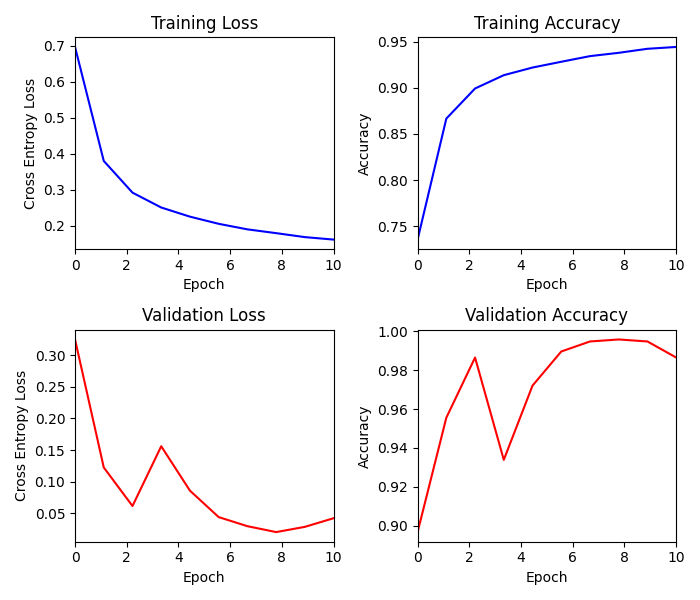
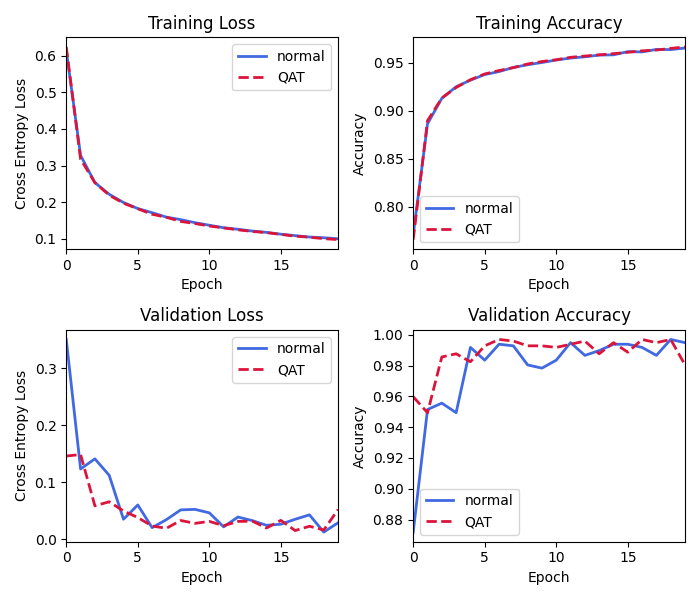
update figure1

diff --git a/graphs.py b/graphs.py
@@ -5,63 +5,79 @@ import numpy as np
 
 df1 = pd.read_csv("training_metrics_normal.csv")
 df2 = pd.read_csv("training_metrics_qat.csv")
-
-x1 = np.linspace(0, len(df1['training_acc']), len(df1['training_acc']))
-x2 = np.linspace(0, len(df2['training_acc']), len(df2['training_acc']))
+x1 = np.linspace(0, len(df1['training_acc'])-1, len(df1['training_acc']))
+x2 = np.linspace(0, len(df2['training_acc'])-1, len(df2['training_acc']))
 
 fig1, ax1 = plt.subplots(2, 2, figsize=(7, 6))
-ax1[0,0].plot(x1, df1['training_loss'], color='b')
+
+# Training Loss
+ax1[0,0].plot(x1, df1['training_loss'], 
+              color='royalblue', 
+              linestyle='-', 
+              linewidth=2, 
+              label='normal')
+ax1[0,0].plot(x2, df2['training_loss'], 
+              color='crimson', 
+              linestyle='--', 
+              linewidth=2, 
+              label='QAT')
 ax1[0,0].set_title("Training Loss")
 ax1[0,0].set_ylabel("Cross Entropy Loss")
 ax1[0,0].set_xlabel("Epoch")
-ax1[0,0].set_xlim(0,len(df1['training_acc']))
+ax1[0,0].set_xlim(0,len(df1['training_acc'])-1)
+ax1[0,0].legend()
 
-ax1[0,1].plot(x1, df1['training_acc'], color='b')
+# Training Accuracy
+ax1[0,1].plot(x1, df1['training_acc'], 
+              color='royalblue', 
+              linestyle='-', 
+              linewidth=2, 
+              label='normal')
+ax1[0,1].plot(x2, df2['training_acc'], 
+              color='crimson', 
+              linestyle='--', 
+              linewidth=2, 
+              label='QAT')
 ax1[0,1].set_title("Training Accuracy")
 ax1[0,1].set_ylabel("Accuracy")
 ax1[0,1].set_xlabel("Epoch")
-ax1[0,1].set_xlim(0,len(df1['training_acc']))
+ax1[0,1].set_xlim(0,len(df1['training_acc'])-1)
+ax1[0,1].legend()
 
-ax1[1,0].plot(x1, df1['validation_loss'], color='r')
+# Validation Loss
+ax1[1,0].plot(x1, df1['validation_loss'], 
+              color='royalblue', 
+              linestyle='-', 
+              linewidth=2, 
+              label='normal')
+ax1[1,0].plot(x2, df2['validation_loss'], 
+              color='crimson', 
+              linestyle='--', 
+              linewidth=2, 
+              label='QAT')
 ax1[1,0].set_title("Validation Loss")
 ax1[1,0].set_ylabel("Cross Entropy Loss")
 ax1[1,0].set_xlabel("Epoch")
-ax1[1,0].set_xlim(0,len(df1['training_acc']))
+ax1[1,0].set_xlim(0,len(df1['training_acc'])-1)
+ax1[1,0].legend()
 
-ax1[1,1].plot(x1, df1['validation_acc'], color='r')
+# Validation Accuracy
+ax1[1,1].plot(x1, df1['validation_acc'], 
+              color='royalblue', 
+              linestyle='-', 
+              linewidth=2, 
+              label='normal')
+ax1[1,1].plot(x2, df2['validation_acc'], 
+              color='crimson', 
+              linestyle='--', 
+              linewidth=2, 
+              label='QAT')
 ax1[1,1].set_title("Validation Accuracy")
 ax1[1,1].set_ylabel("Accuracy")
 ax1[1,1].set_xlabel("Epoch")
-ax1[1,1].set_xlim(0,len(df1['training_acc']))
+ax1[1,1].set_xlim(0,len(df1['training_acc'])-1)
+ax1[1,1].legend()
+
 plt.tight_layout()
 plt.savefig("normal_metrics.png")
-
-# QAT 
-fig2, ax2 = plt.subplots(2, 2, figsize=(7, 6))
-ax2[0,0].plot(x2, df2['training_loss'], color='b', linestyle='--')
-ax2[0,0].set_title("QAT Training Loss")
-ax2[0,0].set_ylabel("Cross Entropy Loss")
-ax2[0,0].set_xlabel("Epoch")
-ax2[0,0].set_xlim(0,len(df2['training_acc']))
-
-ax2[0,1].plot(x2, df2['training_acc'], color='b', linestyle='--')
-ax2[0,1].set_title("QAT Training Accuracy")
-ax2[0,1].set_ylabel("Accuracy")
-ax2[0,1].set_xlabel("Epoch")
-ax2[0,1].set_xlim(0,len(df2['training_acc']))
-
-ax2[1,0].plot(x2, df2['validation_loss'], color='r', linestyle='--')
-ax2[1,0].set_title("QAT Validation Loss")
-ax2[1,0].set_ylabel("Cross Entropy Loss")
-ax2[1,0].set_xlabel("Epoch")
-ax2[1,0].set_xlim(0,len(df2['training_acc']))
-
-ax2[1,1].plot(x2, df2['validation_acc'], color='r', linestyle='--')
-ax2[1,1].set_title("QAT Validation Accuracy")
-ax2[1,1].set_ylabel("Accuracy")
-ax2[1,1].set_xlabel("Epoch")
-ax2[1,1].set_xlim(0,len(df2['training_acc']))
-plt.tight_layout()
-plt.savefig("QAT_metrics.png")
-
 plt.show()

diff --git a/main.py b/main.py
@@ -12,8 +12,8 @@ from utils.create_transforms import create_train_transform, create_valid_transfo
 from model import resnet101
 
 learning_rate = 1e-4
-batch_size = 128
-num_epochs = 10
+batch_size = 64
+num_epochs = 20
 num_workers = 10
 image_height = 224
 image_width = 224
@@ -82,9 +82,9 @@ def main():
     save_checkpoint(checkpoint)
     df = pd.DataFrame({
             "training_loss": training_loss,
-            "training_dice": training_acc,
+            "training_validation_acc": training_acc,
             "validation_loss": validation_loss,
-            "validation_dice": validation_acc
+            "validation_acc": validation_acc
         })
     df.to_csv("training_metrics.csv", index=False)
 

diff --git a/README.md b/README.md
@@ -19,8 +19,5 @@
 </p>
 
 <p>
-    In order to make the model more-robust to quantization noise, I simulated quantization during model training using torchao. The resulting peformance can be seen in figure 2.
+    In order to make the model more-robust to quantization noise, I simulated quantization during model training using torchao. The resulting peformance can be seen in figure 1.
 </p>
-<div align="center">
-    <img src="figures/QAT_metrics.png" width=500px></br></br>
-</div>
